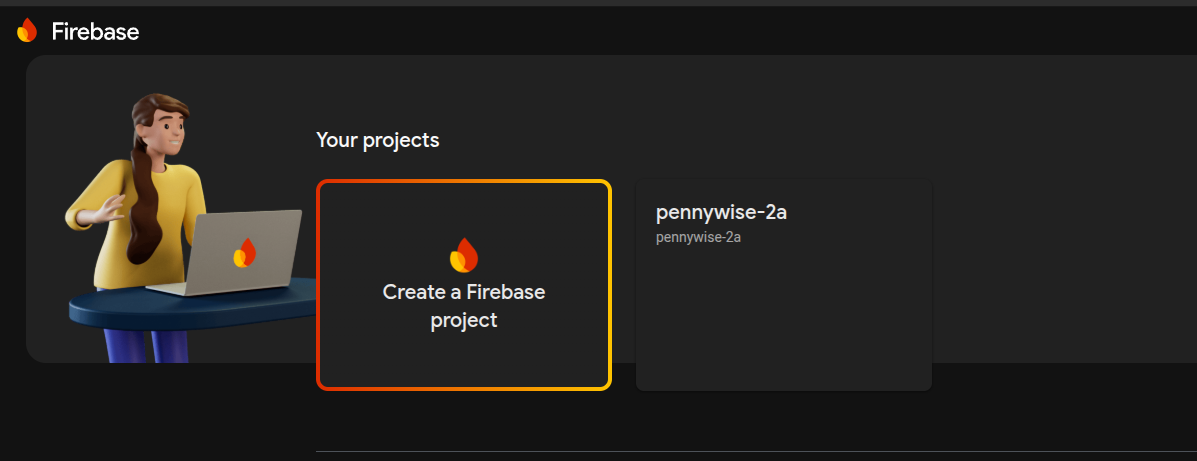
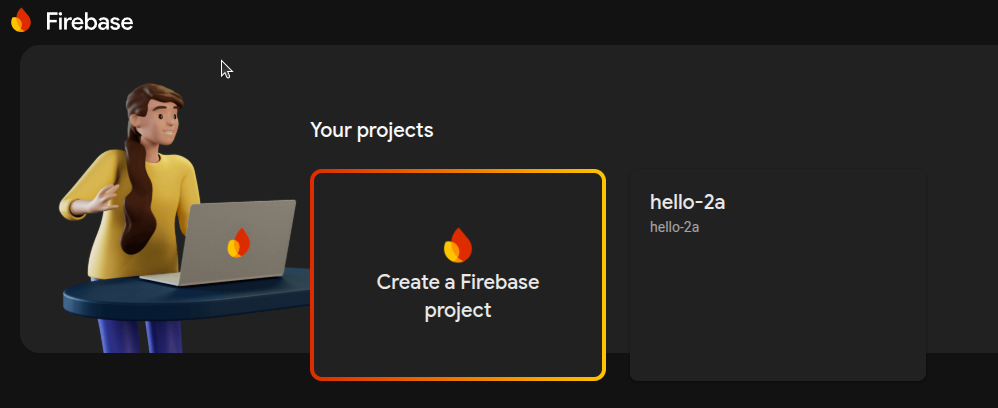
feat: update setup instructions and code comments for project configuration clarity

diff --git a/functions/index.js b/functions/index.js
@@ -32,6 +32,10 @@ admin.initializeApp();
 // Get the Firestore instance from the Admin SDK
 const db = getFirestore(); // No need to pass 'app' here
 
+
+// Define the allowed email address for access
+const ALLOWED_EMAIL = "rushi743@gmail.com"; // <--- IMPORTANT: Replace with the actual allowed email
+
 // --- Keep your existing onRequest functions ---
 // For the 'onRequest' functions, the core logic of interacting with 'db'
 // will now use the Admin SDK's capabilities.

diff --git a/appScript/expenses.js b/appScript/expenses.js
@@ -20,7 +20,7 @@ GNU General Public License for more details, or get a copy at
 */
 
 
-const PROJECT_ID = 'finance-app-361514';
+const PROJECT_ID = 'finance-app-361514';  // Replace with your actual project ID
 const PROJECT_REGION = 'us-central1';
 
 

diff --git a/public/docs/setup.md b/public/docs/setup.md
@@ -153,7 +153,7 @@ After cloning or extracting the project, you need to open a terminal and navigat
 
 2. **Create a New Firebase Project:**
     - Click on **"Add project"** to start the setup process.
-    - Enter a unique name for your project, this will be your project-id (e.g., `pennyfox-2a`).
+    - Enter a unique name for your project, this will be your project-id (e.g., `hello-2a`).
     - Uncheck **"Enable Google Analytics for this project"** and click **"Create project"**.
 
 3. **Access Your Project Dashboard:**
@@ -178,30 +178,36 @@ After cloning or extracting the project, you need to open a terminal and navigat
 
 6. **Enable Web App Configuration:**
 
-  - In the Firebase console, click on the **"+ Add app"** then web app icon to add a web app to your project.
+  - In the Firebase console, you will get 2 types of landing page 
+  - First, if you get below, click on the **"+ Add app"** then web app icon to add a web app to your project.
     
 
-![Create web app](pics/ss4.png)
+![Create web app](pics/ff1.png)
     
   - click on web icon to add a web app to your project.
 
-![Create web app](pics/ss5.png)
+![Create web app](pics/ff3.png)
 
-  - Enter a nickname for your app (e.g., `pennyfox-2a`) and don't check the box to set up Firebase Hosting
+  - Second, if you get below, click on the web app icon pointed in screenshot.
+
+![Create web app](pics/ff2.png)
+
+  - If you get below, click on the **"+ Add app"** then web app icon to add a web app to your project.
+  - Enter a nickname for your app (e.g., `hello-2a`) and don't check the box to set up Firebase Hosting
   - Click **"Register app"**.
 
-![Create web app](pics/ss6.png)
+![Create web app](pics/ff4.png)
 
   - After registering your app, you will see a configuration snippet. 
   - Copy this snippet highlighted in blue in below screenshot.
 
-![Create web app](pics/ss7.png)
+![Create web app](pics/ff5.png)
 
 - Paste content in the file `src/firebase/firebase-public.ts` & keep `export` word as it is.
 - This snippet contains your Firebase project's configuration details, which are essential for connecting your app to Firebase services.
   paste `const firebaseConfig = { ... }` in file after the word `export `.
 
-![Create web app](pics/ss8.png)
+![Create web app](pics/ff6.png)
 
 ### Install Firebase CLI
 
@@ -217,7 +223,7 @@ To interact with Firebase services from your terminal, you need to install the F
 
 
   - **Enable Firestore Rules:**
-    - Replace `firebase.rules` with the following rules to restrict access to your email,
+    - Replace `firestore.rules` with the following rules to restrict access to your email,
     - replace `your-email@gmail.com` with your actual email address.
       ```txt
       rules_version = '2';
@@ -237,7 +243,34 @@ To interact with Firebase services from your terminal, you need to install the F
             allow read, write: if request.auth != null && isMyEmail();
           }
       }
-        ```
+        ``` 
+
+- **Update Mail in Functions:**
+    - Open the file `functions/index.js`.
+    - Replace the email `"your-mail@gmail.com"`  with your actual email address.
+    ```txt
+      // Define the allowed email address for access
+      const ALLOWED_EMAIL = "your-actual-email@gmail.com"; // <--- IMPORTANT: Replace with the actual allowed email
+    ```
+- ** Update Project ID in App Script:**
+    - Open the file `appScript/expenses.js`.
+    - Replace the `PROJECT_ID` with your actual Firebase project ID.
+    - This is typically in the format: `https://<region>-<project-id>.cloudfunctions.net/<function-name>`.
+    ```txt
+    const PROJECT_ID = 'dummy-id';  // Replace with your actual project ID  
+    ```
+- **Run NPM Install:**
+    - Run the following command to install all necessary dependencies:
+      ```bash
+      npm install
+      ```
+-  **Firebase Login:**
+    - Run the following command to log in to Firebase:
+      ```bash
+      firebase login
+      ```
+    - This will open a browser window for you to log in with your Google account.
+
 
 -  **Initialize Firestore:**
     ```bash
@@ -250,38 +283,32 @@ To interact with Firebase services from your terminal, you need to install the F
    
 ### AppScript Setup
 
-1. **Update Function URL:**
-   - Open the file `appScript/expenses.js`.
-   - Replace the `PROJECT_ID` with the project-id.
-   - This URL is typically in the format: `https://<region>-<project-id>.cloudfunctions.net/<function-name>`.
-   
-
-2. **Log in with `clasp`:**
+1. **Log in with `clasp`:**
     Run the following command to authorize `clasp` with your Google account:
     ```bash
     clasp login
     ```
     This will open a browser window. Log in to your Google account and grant the requested permissions.
 
-3. **Navigate to the `appScript` Directory:**
+2. **Navigate to the `appScript` Directory:**
     Change your current directory to the `appScript` folder within the project:
     ```bash
     cd appScript
     ```
 
-4. **Create a New Apps Script Project:**
+3. **Create a New Apps Script Project:**
     Run the following command to create a new, standalone Apps Script project:
     ```bash
     clasp create --title "Pennyfox App Script" --type standalone
     ```
 
-5. **Push Local Code to Apps Script:**
+4. **Push Local Code to Apps Script:**
     To upload your local code to the newly created Apps Script project, run:
     ```bash
     clasp push
     ```
 
-6. **Deploy the Project:**
+5. **Deploy the Project:**
     Deploy your project with the following command, adding a description for the version:
     ```bash
     clasp deploy --description "pennyfox v1"
